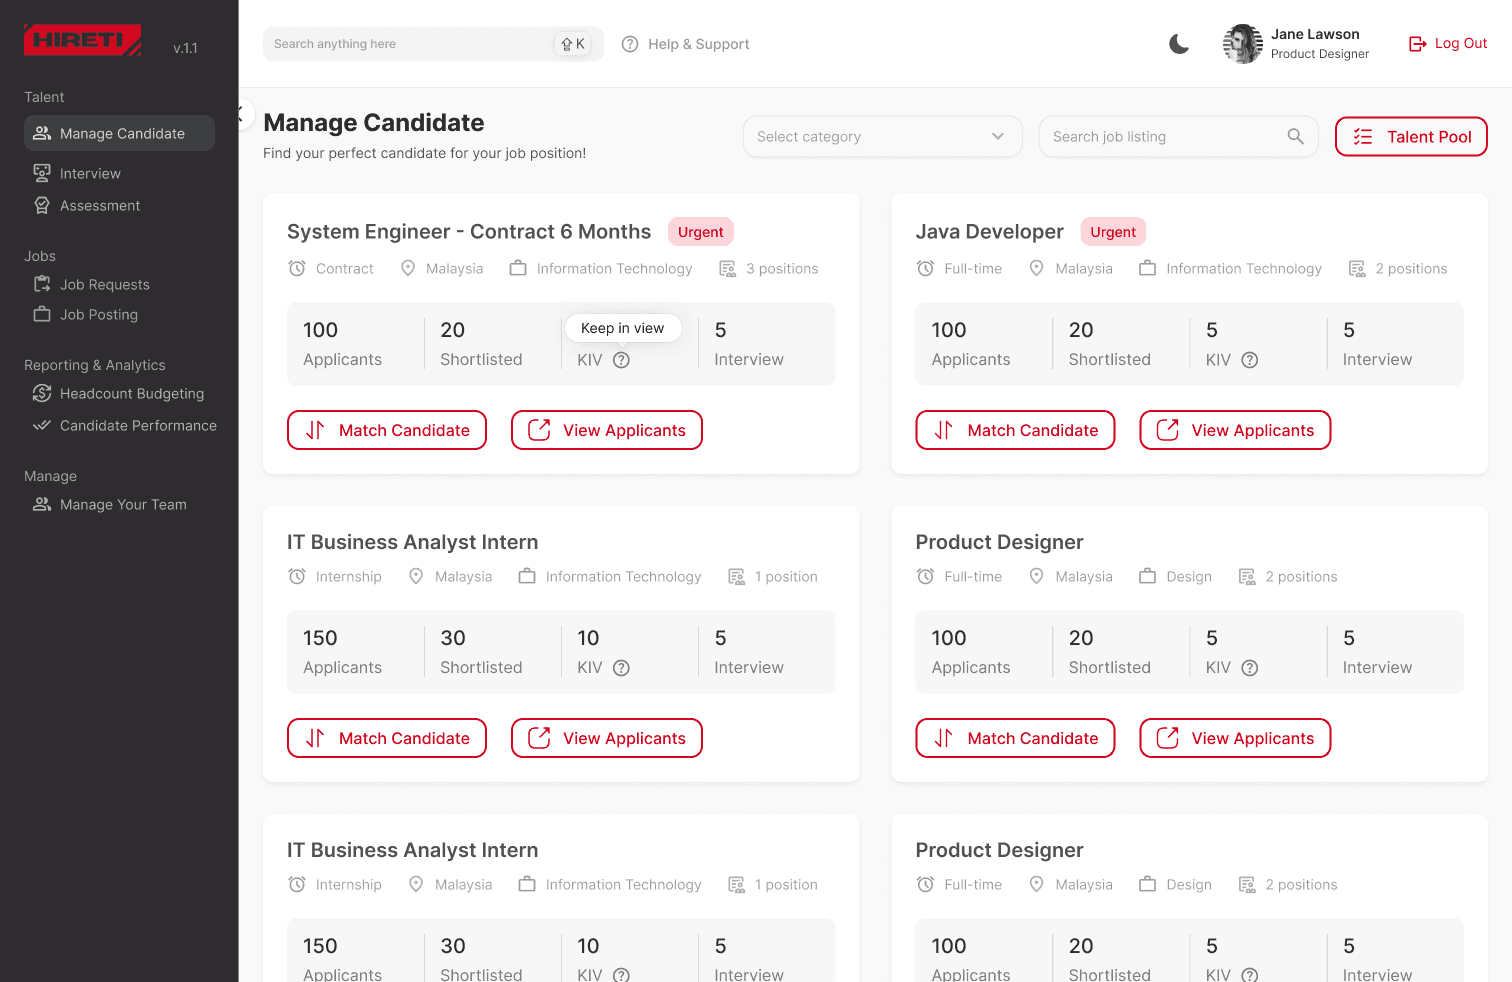
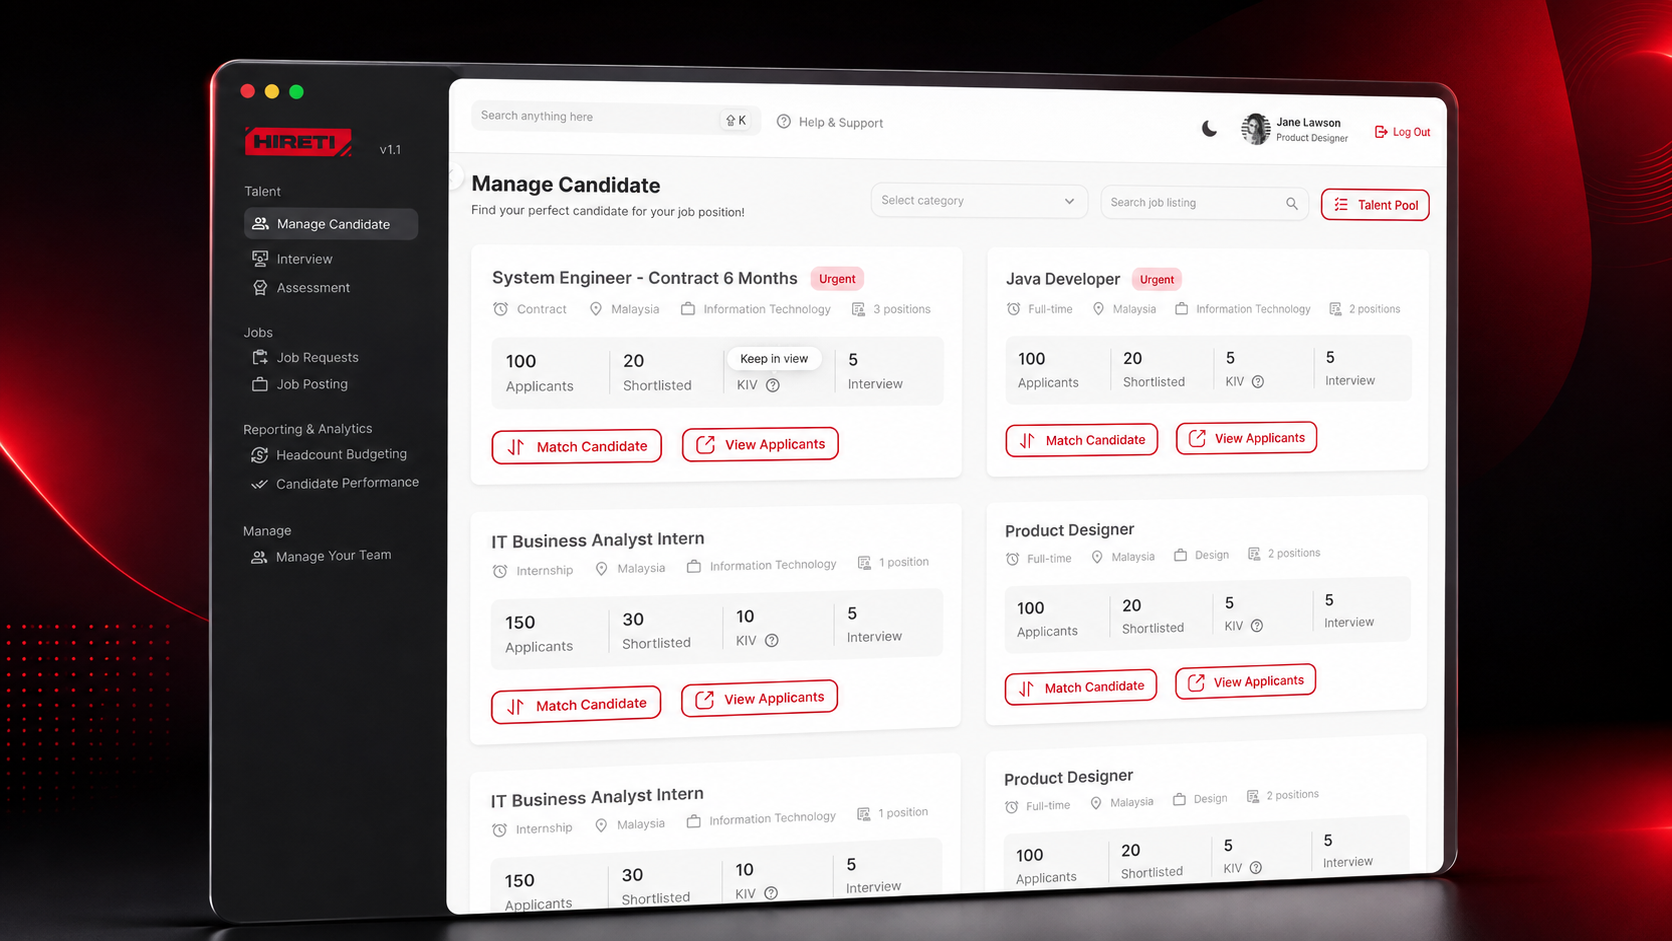
Swap the Hireti cover, add suggested questions to the ask box
- Replaces the Hireti cover with the presentation mockup, matching the
  treatment Pantas just got. The dark red also reads distinctly against
  Pantas' blue on the board.
- Four suggested questions now sit below the ask box, each opening the
  answer in the macOS window. They are positioned absolutely so adding
  them leaves the hero composition untouched — the section is still
  exactly one viewport — and fall back into normal flow below 900px.
- Removes the inline reply panel's leftover styles: the bubbles, typing
  caret and old suggestion chips have been dead since answers moved into
  the window.

diff --git a/src/components/AskBox.module.css b/src/components/AskBox.module.css
@@ -85,120 +85,53 @@
   transform: none;
 }
 
-/* answers float beneath the box so the hero layout never shifts */
-.reply {
-  position: absolute;
-  left: 0;
-  right: 0;
-  top: calc(100% + 12px);
-  z-index: 6;
-  max-height: 0;
-  opacity: 0;
-  overflow: hidden;
-  border-radius: 20px;
-  border: 2px solid var(--glass-border);
-  background: rgba(255, 255, 255, 0.1);
-  backdrop-filter: blur(40px) saturate(130%);
-  -webkit-backdrop-filter: blur(40px) saturate(130%);
-  box-shadow: var(--glass-shadow), var(--glass-inset);
-  transition: max-height 0.5s var(--ease), opacity 0.35s var(--ease);
-}
-/* The dock occupies the bottom ~112px of the viewport, so the answer log is
-   capped against viewport height rather than a flat 300px — otherwise the
-   newest message hides behind the dock on shorter screens. */
-.replyOpen {
-  max-height: min(300px, 20svh);
-  opacity: 1;
-}
 
-.scroll {
-  max-height: min(300px, 20svh);
-  overflow-y: auto;
-  padding: 16px;
-  display: flex;
-  flex-direction: column;
-  gap: 12px;
-  scrollbar-width: thin;
-  scrollbar-color: rgba(255, 255, 255, 0.35) transparent;
-}
-.scroll::-webkit-scrollbar {
-  width: 6px;
-}
-.scroll::-webkit-scrollbar-thumb {
-  background: rgba(255, 255, 255, 0.3);
-  border-radius: 6px;
-}
 
-.turn {
-  display: flex;
-  flex-direction: column;
-  gap: 12px;
-}
-
-.bubble {
-  max-width: 88%;
-  font-size: 14px;
-  line-height: 20px;
-  letter-spacing: -0.2px;
-}
-.question {
-  align-self: flex-end;
-  padding: 9px 14px;
-  border-radius: 14px 14px 4px 14px;
-  background: rgba(0, 0, 0, 0.42);
-  color: var(--white);
-  font-weight: 500;
-}
-.answer {
-  align-self: flex-start;
-  color: rgba(255, 255, 255, 0.94);
-  padding: 2px 2px 2px 0;
-  text-shadow: 0 1px 6px rgba(0, 0, 0, 0.35);
-}
-.answer b {
-  font-weight: 600;
-  color: #fff;
-}
-
-.caret {
-  display: inline-block;
-  width: 2px;
-  height: 1em;
-  background: currentColor;
-  vertical-align: -2px;
-  margin-left: 2px;
-  animation: blink 0.9s steps(2, start) infinite;
-}
-@keyframes blink {
-  50% {
-    opacity: 0;
-  }
-}
-
-.suggests {
-  display: flex;
-  flex-wrap: wrap;
-  gap: 8px;
-  padding-top: 2px;
-}
-.suggests button {
-  font-size: 12px;
-  font-weight: 500;
-  letter-spacing: -0.2px;
-  padding: 6px 11px;
-  border-radius: 100px;
-  border: 1px solid rgba(255, 255, 255, 0.28);
-  background: rgba(255, 255, 255, 0.1);
-  color: rgba(255, 255, 255, 0.92);
-  transition: background 0.2s var(--ease), transform 0.2s var(--ease);
-}
-.suggests button:hover {
-  background: rgba(255, 255, 255, 0.22);
-  transform: translateY(-1px);
-}
 
 @media (max-width: 900px) {
   .zone {
     width: min(92vw, 460px);
+  }
+}
+
+/* ---------- suggested questions ----------
+   Absolutely positioned so adding them never shifts the hero composition. */
+.suggests {
+  position: absolute;
+  left: 0;
+  right: 0;
+  top: calc(100% + 14px);
+  display: flex;
+  flex-wrap: wrap;
+  justify-content: center;
+  gap: 8px;
+}
+.suggests button {
+  font-family: var(--font-ui);
+  font-size: 13px;
+  font-weight: 500;
+  letter-spacing: -0.2px;
+  padding: 8px 14px;
+  border-radius: 100px;
+  border: 1px solid rgba(255, 255, 255, 0.3);
+  background: rgba(255, 255, 255, 0.14);
+  backdrop-filter: blur(14px) saturate(140%);
+  -webkit-backdrop-filter: blur(14px) saturate(140%);
+  color: #fff;
+  white-space: nowrap;
+  text-shadow: 0 1px 4px rgba(0, 0, 0, 0.3);
+  transition: background 0.2s var(--ease), transform 0.2s var(--ease),
+    border-color 0.2s var(--ease);
+}
+.suggests button:hover {
+  background: rgba(255, 255, 255, 0.26);
+  border-color: rgba(255, 255, 255, 0.45);
+  transform: translateY(-1px);
+}
+
+@media (max-width: 900px) {
+  .suggests {
+    position: static;
+    margin-top: 14px;
   }
 }

diff --git a/src/components/AskBox.jsx b/src/components/AskBox.jsx
@@ -1,17 +1,19 @@
 import { useState } from 'react'
+import { SUGGESTIONS } from '../data/knowledge.js'
 import { useWindows } from './windowContext.js'
 import styles from './AskBox.module.css'
 
 /**
  * Figma node 15:1452. Submitting opens the answer in a macOS window rather
- * than expanding inline, so the hero composition never shifts.
+ * than expanding inline, so the hero composition never shifts. The suggested
+ * questions sit absolutely below the box for the same reason.
  */
 export default function AskBox() {
   const [value, setValue] = useState('')
   const { openAsk } = useWindows()
 
-  function ask() {
-    const q = value.trim()
+  function ask(question) {
+    const q = (question ?? value).trim()
     if (!q) return
     openAsk(q)
     setValue('')
@@ -51,6 +53,14 @@ export default function AskBox() {
           </button>
         </div>
       </form>
+
+      <div className={styles.suggests}>
+        {SUGGESTIONS.map((s) => (
+          <button key={s} type="button" onClick={() => ask(s)}>
+            {s}
+          </button>
+        ))}
+      </div>
     </div>
   )
 }
